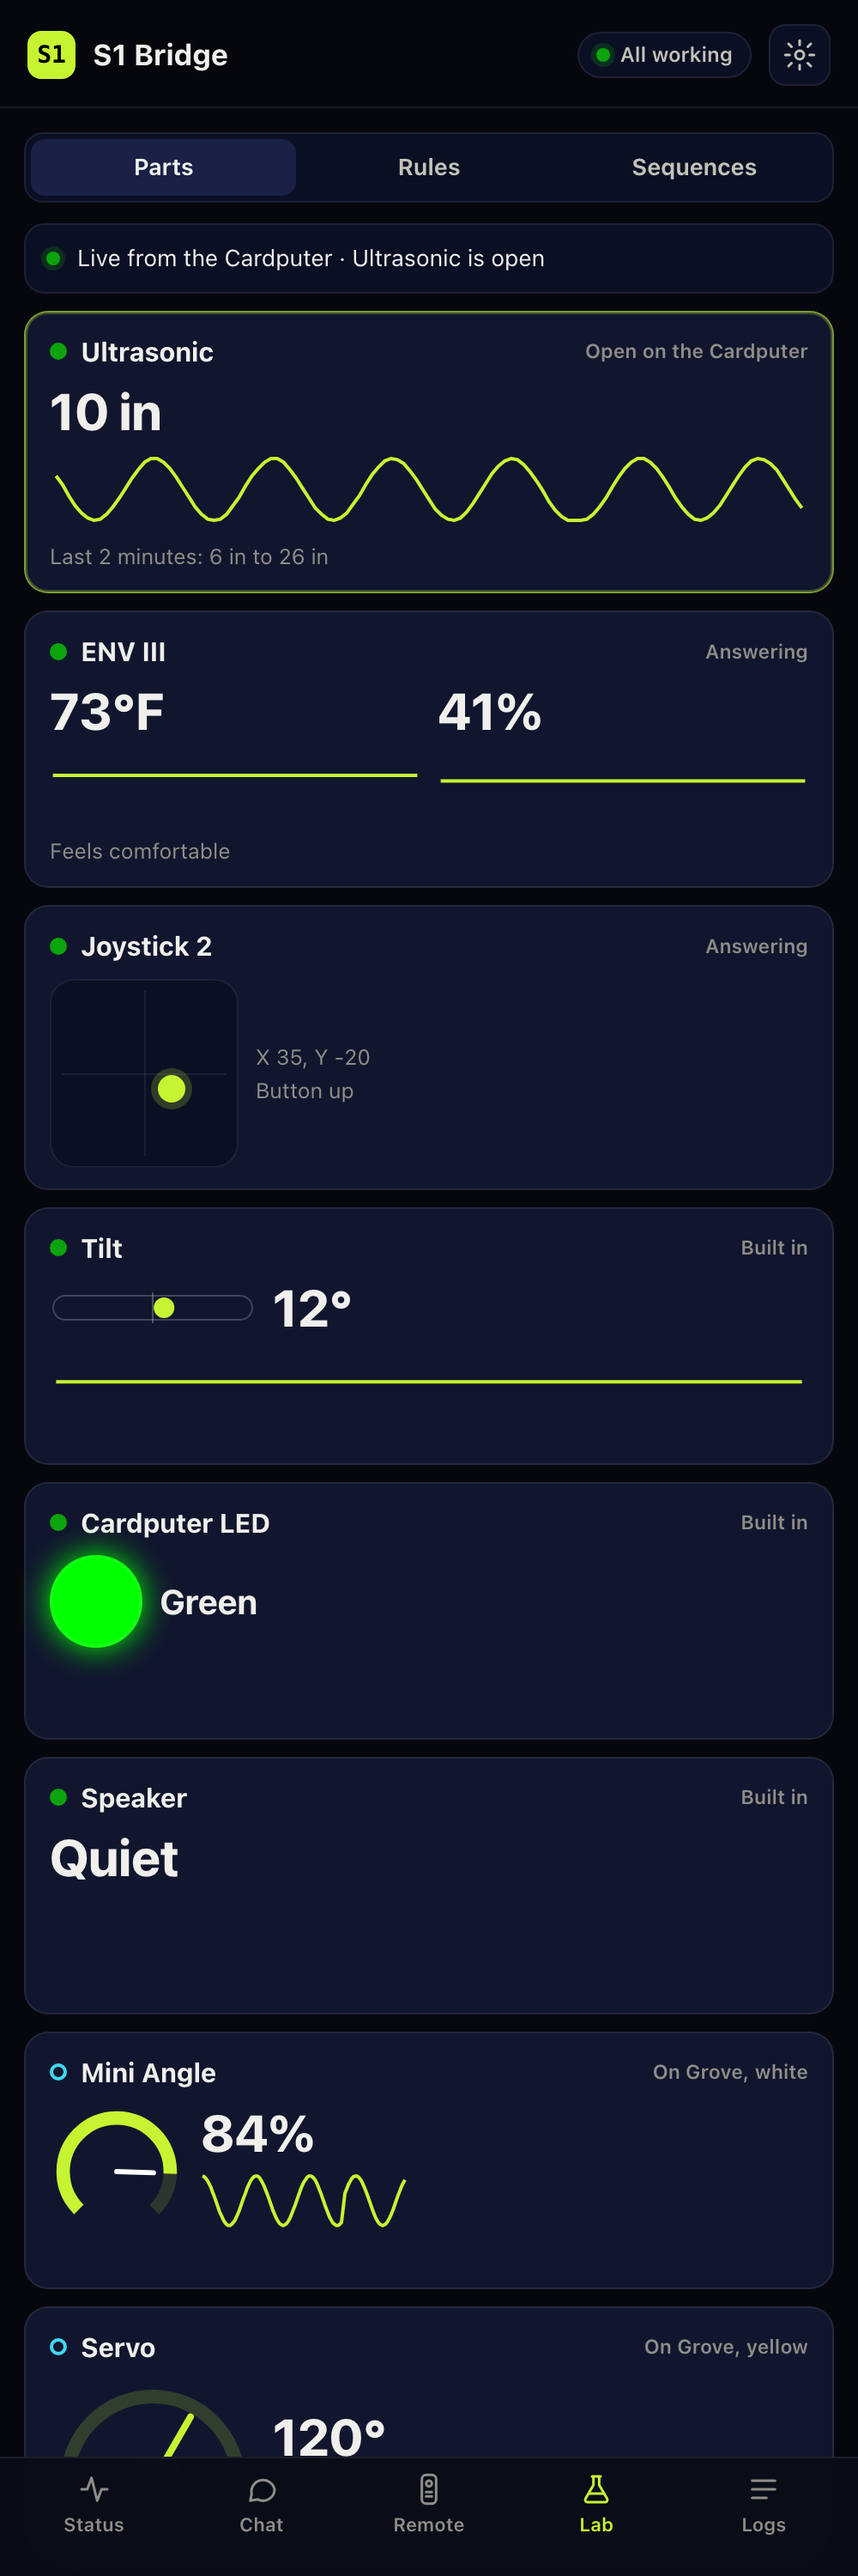
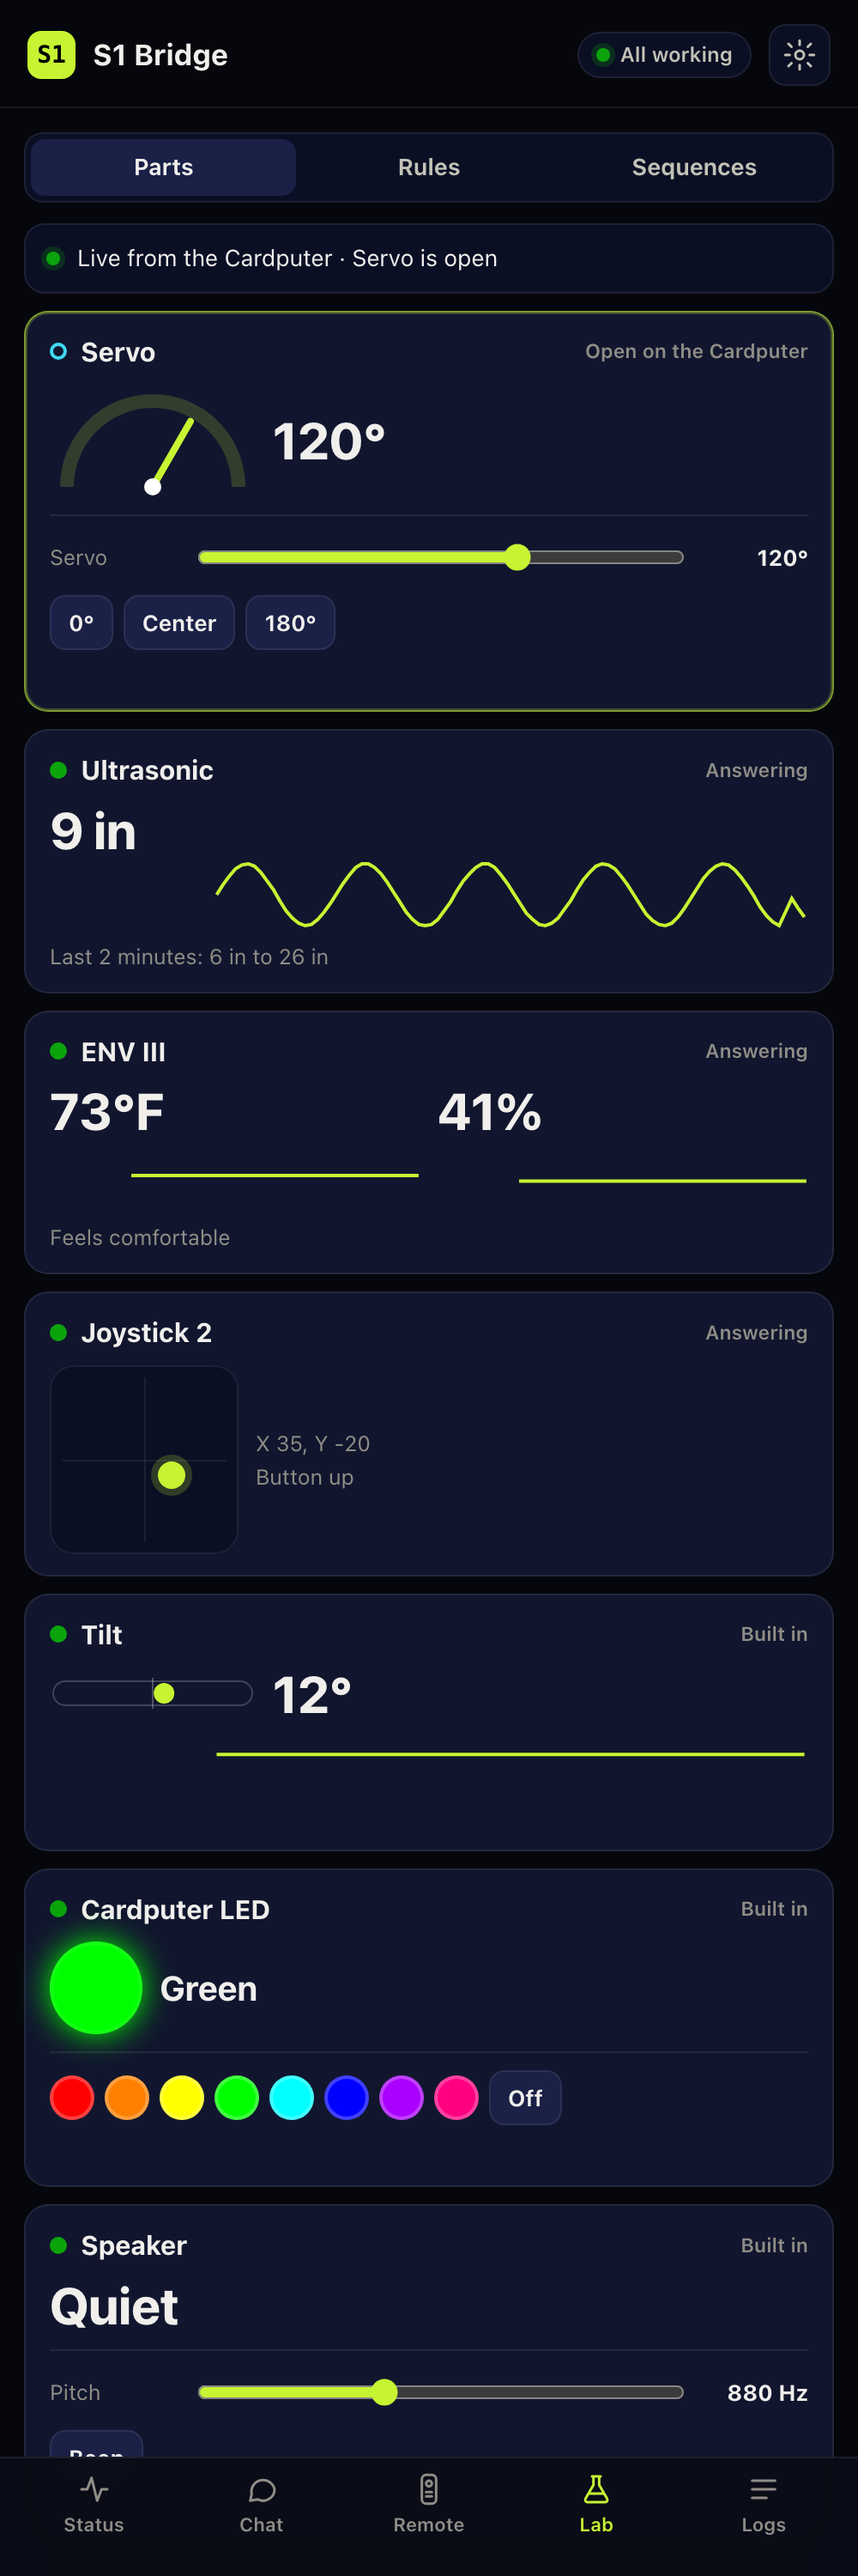
feat(bridge): control the Lab's parts from the web page
Each card that can be driven gets controls: the servo's angle, the LED strip's
color, brightness and length, the Cardputer's LED, a speaker beep, both
relays, the smartLamp and the TCL and Daikin air conditioners. The relays,
lamp and air conditioners switch with no confirm, as the owner asked.

A control rides the answer to the Lab's next live report over the home door
("set <id> <output> <value>", eight at most, the newest per output), so it
lands within about a second while the Lab is open at home. One not collected
within 5 seconds is dropped, so a tap never lands later on its own, and none
are taken from a Lab that isn't reporting. The Cardputer answers "did <id> ok"
or why not in its next report, and each card says what became of the last tap.

Cards are now made once and redrawn in place, so a slider survives the
page's once-a-second refresh.

Changed region(s): [[0.031, 0.124, 0.992, 0.527], [0.031, 0.558, 0.992, 0.961], [0.434, 0.093, 0.558, 0.124]]

diff --git a/bridge/ui/app.js b/bridge/ui/app.js
@@ -536,26 +536,122 @@ function liveBanner(live) {
   const playing = s.playing ? ` · rules playing${firing.length ? `, ${firing.length === 1 ? `rule ${firing[0]}` : `rules ${firing.join(", ")}`} firing` : ""}` : "";
   return `<div class="livebar live"><span class="dot"></span><span>Live from the Cardputer${s.open ? ` · ${esc(s.open)} is open` : views[s.view] ? ` · on ${views[s.view]}` : ""}${playing}${s.extra.seq ? ` · playing “${esc(s.extra.seq)}”` : ""}</span></div>`;
 }
+// --- Parts, live, with controls for what can be driven ---
+// Each card is made once and its reading redrawn in place, so a slider isn't lost mid-drag.
+const partCards = new Map();
+// The outputs each card can set, and how. Sliders send as they move, a few times a second.
+const CONTROLS = {
+  "Servo": () => `${slider("servo", 0, 180, 90, "°")}<div class="btnrow">${btn("servo", 0, "0°")}${btn("servo", 90, "Center")}${btn("servo", 180, "180°")}</div>`,
+  "LED strip": () => `<div class="btnrow">${swatches("strip_color")}${btn("strip_color", -1, "Off")}</div>${slider("strip_bright", 0, 100, 60, "%", "Brightness")}${slider("strip_length", 0, 30, 30, " LEDs", "Length")}`,
+  "Cardputer LED": () => `<div class="btnrow">${swatches("led")}${btn("led", -1, "Off")}</div>`,
+  "Speaker": () => `${slider("speaker", 200, 2000, 880, " Hz", "Pitch", true)}<div class="btnrow"><button class="btn small" data-beep>Beep</button></div>`,
+  "2 relays": () => `<div class="btnrow">${toggle("relay_1", "Relay 1")}${toggle("relay_2", "Relay 2")}</div>`,
+  "smartLamp": () => `<div class="btnrow">${btn("lamp_power", 1, "On")}${btn("lamp_power", 0, "Off")}</div>${slider("lamp_bright", 0, 100, 60, "%", "Brightness")}`,
+  "IR for AC": () => `<div class="btnrow"><span class="sub">TCL</span>${btn("ac_tcl", 1, "On")}${btn("ac_tcl", 0, "Off")}<span class="sub">Daikin</span>${btn("ac_daikin", 1, "On")}${btn("ac_daikin", 0, "Off")}</div>`
+};
+const PART_OUTPUTS = { "Servo": ["servo"], "LED strip": ["strip_color", "strip_bright", "strip_length"], "Cardputer LED": ["led"], "Speaker": ["speaker"],
+  "2 relays": ["relay_1", "relay_2"], "smartLamp": ["lamp_power", "lamp_bright"], "IR for AC": ["ac_tcl", "ac_daikin"] };
+const btn = (output, value, label) => `<button class="btn small" data-out="${output}" data-val="${value}">${esc(label)}</button>`;
+const toggle = (output, label) => `<button class="btn small relaybtn" data-toggle="${output}" data-label="${esc(label)}">${esc(label)}</button>`;
+const swatches = (output) => HUES.map(([v, n]) => `<button class="sw" title="${n}" data-out="${output}" data-val="${v}" style="background:hsl(${v},100%,50%)"></button>`).join("");
+const slider = (output, min, max, value, unit, label = "", hold = false) => `<label class="sl"><span>${esc(label || OUT[output]?.name || output)}</span>
+  <input type="range" min="${min}" max="${max}" value="${value}" data-slide="${output}" ${hold ? "data-hold" : ""}><b data-show="${output}">${value}${unit}</b></label>`;
+
+async function sendControl(output, value) {
+  try { await api("lab/control", { output, value: Number(value) }); setTimeout(() => refresh(), 150); }
+  catch (e) { toast(e.message === "lab_not_live" ? "Open the Lab on the Cardputer, at home, to use the controls." : `Not sent: ${e.message}`); }
+}
+function wireControls(card, part) {
+  card.querySelectorAll("[data-out]").forEach((b) => b.addEventListener("click", () => sendControl(b.dataset.out, b.dataset.val)));
+  card.querySelectorAll("[data-toggle]").forEach((b) => b.addEventListener("click", () => {
+    const now = labData.live.snapshot?.outs?.[b.dataset.toggle];
+    sendControl(b.dataset.toggle, now ? 0 : 1);
+  }));
+  const pitch = card.querySelector('[data-slide="speaker"]');
+  card.querySelector("[data-beep]")?.addEventListener("click", () => sendControl("speaker", pitch.value));
+  card.querySelectorAll("input[data-slide]").forEach((input) => {
+    const show = card.querySelector(`[data-show="${input.dataset.slide}"]`);
+    const unit = show.textContent.replace(/^-?\d+/u, "");
+    let last = 0, timer = 0;
+    const go = () => { last = Date.now(); if (!input.hasAttribute("data-hold")) sendControl(input.dataset.slide, input.value); };
+    input.addEventListener("input", () => {
+      show.textContent = `${input.value}${unit}`;
+      input.dataset.touched = String(Date.now());
+      clearTimeout(timer);
+      if (Date.now() - last > 250) go(); else timer = setTimeout(go, 250);
+    });
+    input.addEventListener("change", () => { clearTimeout(timer); go(); });
+  });
+}
+// A slider follows the Cardputer's value, unless it was moved in the last few seconds.
+function syncControls(card, s) {
+  card.querySelectorAll("input[data-slide]").forEach((input) => {
+    const v = s.outs?.[input.dataset.slide];
+    if (v === undefined || v < 0 || Date.now() - Number(input.dataset.touched || 0) < 3000 || input.hasAttribute("data-hold")) return;
+    input.value = v;
+    const show = card.querySelector(`[data-show="${input.dataset.slide}"]`);
+    show.textContent = `${v}${show.textContent.replace(/^-?\d+/u, "")}`;
+  });
+  card.querySelectorAll("[data-toggle]").forEach((b) => {
+    // Says what a tap does, since the card above already shows which way it is.
+    const on = Boolean(s.outs?.[b.dataset.toggle]);
+    b.textContent = `Turn ${b.dataset.label.toLowerCase()} ${on ? "off" : "on"}`;
+  });
+}
+function controlNote(part, live) {
+  const mine = (live.controls || []).filter((c) => PART_OUTPUTS[part.name]?.includes(c.output) && c.age_ms < 15000).at(-1);
+  if (!mine) return "";
+  const words = { waiting: "Sending…", sent: "Sent", done: "Done", replaced: "Sent", dropped: "Not sent: the Lab wasn't reporting",
+    refused: `Not done: ${mine.why}`, unanswered: "No answer. The Cardputer needs firmware 0.2.329 or later" }[mine.state] || "";
+  return `<span class="${mine.state === "refused" || mine.state === "unanswered" || mine.state === "dropped" ? "err" : ""}">${esc(words)}</span>`;
+}
+
+function drawParts(body) {
+  const live = labData.live;
+  const s = live.snapshot || { found: [], sigs: {}, outs: {}, extra: {}, hub: null, wires: null, gps: null };
+  const h = live.history || {};
+  if (body.dataset.tab !== "parts" || !body.querySelector(".parts")) {
+    body.dataset.tab = "parts";
+    body.innerHTML = `<div id="liveBar"></div><div class="parts"></div>`;
+    partCards.clear();
+  }
+  $("#liveBar", body).innerHTML = liveBanner(live) + (live.reported && !live.can_control
+    ? `<div class="tiny muted" style="margin:-4px 4px 10px">Controls work while the Lab is open on the Cardputer at home.</div>` : "");
+  const grid = $(".parts", body);
+  const order = [];
+  for (const part of PARTS) {
+    const [dot, where] = presence(part, s);
+    const open = s.open === part.name;
+    let card = partCards.get(part.name);
+    if (!card) {
+      card = document.createElement("div");
+      card.innerHTML = `<div class="head"></div><div class="pv"></div>${CONTROLS[part.name] ? `<div class="pc">${CONTROLS[part.name]()}<div class="pnote"></div></div>` : ""}`;
+      if (CONTROLS[part.name]) wireControls(card, part);
+      partCards.set(part.name, card);
+    }
+    card.className = `part${open ? " open" : ""}${!dot && !open ? " absent" : ""}`;
+    card.querySelector(".head").innerHTML = `<span class="pdot ${dot}"></span><b>${esc(part.name)}</b><span class="where">${open ? "Open on the Cardputer" : esc(where)}</span>`;
+    card.querySelector(".pv").innerHTML = part.draw(s, h);
+    const controls = card.querySelector(".pc");
+    if (controls) {
+      controls.classList.toggle("off", !live.can_control);
+      syncControls(card, s);
+      card.querySelector(".pnote").innerHTML = controlNote(part, live);
+    }
+    order.push({ card, rank: open ? 0 : dot === "here" ? 1 : dot === "ring" ? 2 : 3 });
+  }
+  // The part open on the Cardputer first, then the ones that are there, then the rest. Cards only
+  // move when the order changes, so one being used stays put.
+  order.sort((a, b) => a.rank - b.rank);
+  const wanted = order.map((o) => o.card);
+  if (wanted.some((card, i) => grid.children[i] !== card)) wanted.forEach((card) => grid.appendChild(card));
+}
+
 function drawLabBody(first) {
   document.querySelectorAll("#lab [data-tab]").forEach((a) => a.classList.toggle("on", a.dataset.tab === labTab));
   const body = $("#labBody");
   if (!body) return;
-  if (labTab === "parts") {
-    const live = labData.live;
-    const s = live.snapshot || { found: [], sigs: {}, outs: {}, extra: {}, hub: null, wires: null, gps: null };
-    const h = live.history || {};
-    const cards = PARTS.map((part) => {
-      const [dot, where] = presence(part, s);
-      const open = s.open === part.name;
-      return { open, dot, html: `<div class="part${open ? " open" : ""}${!dot && !open ? " absent" : ""}">
-        <div class="head"><span class="pdot ${dot}"></span><b>${esc(part.name)}</b><span class="where">${open ? "Open on the Cardputer" : esc(where)}</span></div>
-        ${part.draw(s, h)}</div>` };
-    });
-    // The part open on the Cardputer first, then the ones that are there, then the rest.
-    const order = (c) => (c.open ? 0 : c.dot === "here" ? 1 : c.dot === "ring" ? 2 : 3);
-    body.innerHTML = liveBanner(live) + `<div class="parts">${cards.sort((a, b) => order(a) - order(b)).map((c) => c.html).join("")}</div>`;
-    return;
-  }
+  if (labTab === "parts") { drawParts(body); return; }
   if (!first && body.dataset.tab === labTab) return; // Rules and sequences only change when asked.
   body.dataset.tab = labTab;
   const saved = labData.saved;

diff --git a/bridge/ui/style.css b/bridge/ui/style.css
@@ -240,3 +240,17 @@ textarea{resize:none;width:100%;min-height:22px;max-height:140px;border:0;backgr
 .formrow .grow{flex:1}
 .restarting{position:fixed;inset:0;background:rgba(6,7,12,.85);display:grid;place-items:center;z-index:30;font-size:17px}
 .size-chart{width:100%;height:auto;margin-top:12px}
+
+/* Lab controls */
+.part .pc{display:flex;flex-direction:column;gap:8px;margin-top:2px;padding-top:10px;border-top:1px solid var(--line)}
+.part .pc.off{opacity:.38;pointer-events:none}
+.btnrow{display:flex;flex-wrap:wrap;gap:6px;align-items:center}
+.btnrow .sub{margin-left:4px}
+.sw{width:26px;height:26px;border-radius:50%;border:2px solid rgba(255,255,255,.25);cursor:pointer;padding:0}
+.sw:active{transform:scale(.92)}
+.sl{display:grid;grid-template-columns:78px 1fr 64px;align-items:center;gap:8px;font-size:12.5px;color:var(--mute)}
+.sl b{color:var(--ink);font-size:13px;text-align:right}
+input[type=range]{width:100%;accent-color:var(--lime);background:transparent;border:0;padding:0;height:28px}
+.relaybtn.on{background:rgba(12,163,12,.2);color:#5fe05f;border-color:rgba(12,163,12,.5)}
+.pnote{font-size:12px;color:var(--mute);min-height:15px}
+.part.absent .pc{opacity:.6}

diff --git a/docs/BRIDGE-UI.md b/docs/BRIDGE-UI.md
@@ -7,7 +7,7 @@ The bridge has its own web page: the Cardputer's status, the chat, a remote, the
 <td width="20%"><img src="assets/bridge-ui/status.png" alt="Status: the Cardputer online with its check-ins for the last hour, its starts, Claude idle, replies picked up, storage and services" width="100%"><br><sub><b>Status.</b> Is everything working?</sub></td>
 <td width="20%"><img src="assets/bridge-ui/chat.png" alt="Chat: messages from the Cardputer and from the page, Claude's replies with their Lab actions, and when the Cardputer picked each one up" width="100%"><br><sub><b>Chat.</b> The Cardputer's conversation.</sub></td>
 <td width="20%"><img src="assets/bridge-ui/remote.png" alt="Remote: buttons that open a screen on the Cardputer and change its update settings" width="100%"><br><sub><b>Remote.</b> Run the Cardputer from here.</sub></td>
-<td width="20%"><img src="assets/bridge-ui/lab-parts.png" alt="Lab: every part live, the Ultrasonic open on the Cardputer with a graph of its distance" width="100%"><br><sub><b>Lab.</b> Every part, live.</sub></td>
+<td width="20%"><img src="assets/bridge-ui/lab-parts.png" alt="Lab: the Servo open on the Cardputer at 120 degrees with a slider and Center buttons, then the other parts live, the LED with its colors" width="100%"><br><sub><b>Lab.</b> Every part, live, and controls.</sub></td>
 <td width="20%"><img src="assets/bridge-ui/firmware.png" alt="Firmware: installed and offered versions, how full the app slot is with a chart of build sizes, and the builds kept" width="100%"><br><sub><b>Firmware.</b> What's installed, and room left.</sub></td>
 </tr>
 </table>
@@ -101,6 +101,24 @@ Three tabs: Parts, Rules and Sequences.
 **Parts** draws every part the Lab knows, live, while the Lab is open on the Cardputer at home: distance with a graph of the last two minutes, temperature and humidity, the joystick's position, the knob's dial, light, motion, the relays, the servo's angle, the LED strip's colors, the I/O hub's ports, the GPS, tilt, the Cardputer's LED and speaker, the smartLamp and the air conditioners. The part open on the Cardputer comes first, then those that are there. A dot says what the Lab knows, as on its Devices list: solid is there, a ring is set up but can't confirm it, grey isn't found. The bar at the top says whether it's live and what the Cardputer shows, and which rules are firing.
 
 The readings only come over your home Wi-Fi, and only while the Lab is open. See [the Lab guide](LAB.md#on-the-bridges-page) for what the Cardputer sends and when.
+
+**Controls** sit under each part that can be driven, and act within about a second, while the Lab is open on the Cardputer at home:
+
+| Part | Controls |
+| --- | --- |
+| Servo | An angle slider, and 0°, Center and 180° |
+| LED strip | Eight colors and Off, brightness and how many LEDs |
+| Cardputer LED | Eight colors and Off |
+| Speaker | A pitch, and Beep |
+| 2 relays | Turn each on or off |
+| smartLamp | On, Off and brightness |
+| IR for AC | TCL on or off, Daikin on or off |
+
+- **The relays, the lamp and the air conditioners switch the moment you tap,** with no question on the page or the Cardputer. Those can switch mains power, so mind what's plugged in.
+- **Each card says what became of your last tap:** sent, done, or not done and why, such as a sequence holding that part.
+- **A tap the Cardputer hasn't collected within 5 seconds is dropped,** so nothing happens later on its own.
+- **What you set lasts until the Lab takes it back,** as a test screen's does: a rule or a sequence taking the part, its screen closing, or the Lab closing, when everything goes back to rest, relays and lamp off included.
+- **Away from home, or with the Lab closed,** the controls are greyed out.
 
 **Rules** and **Sequences** show what's saved on the Cardputer, as it last told the bridge with a chat message. Play starts a sequence, and New rule builds one with menus, in the units you read. Like everything Claude sends, a rule from here waits on the Cardputer until you check it there.
 
